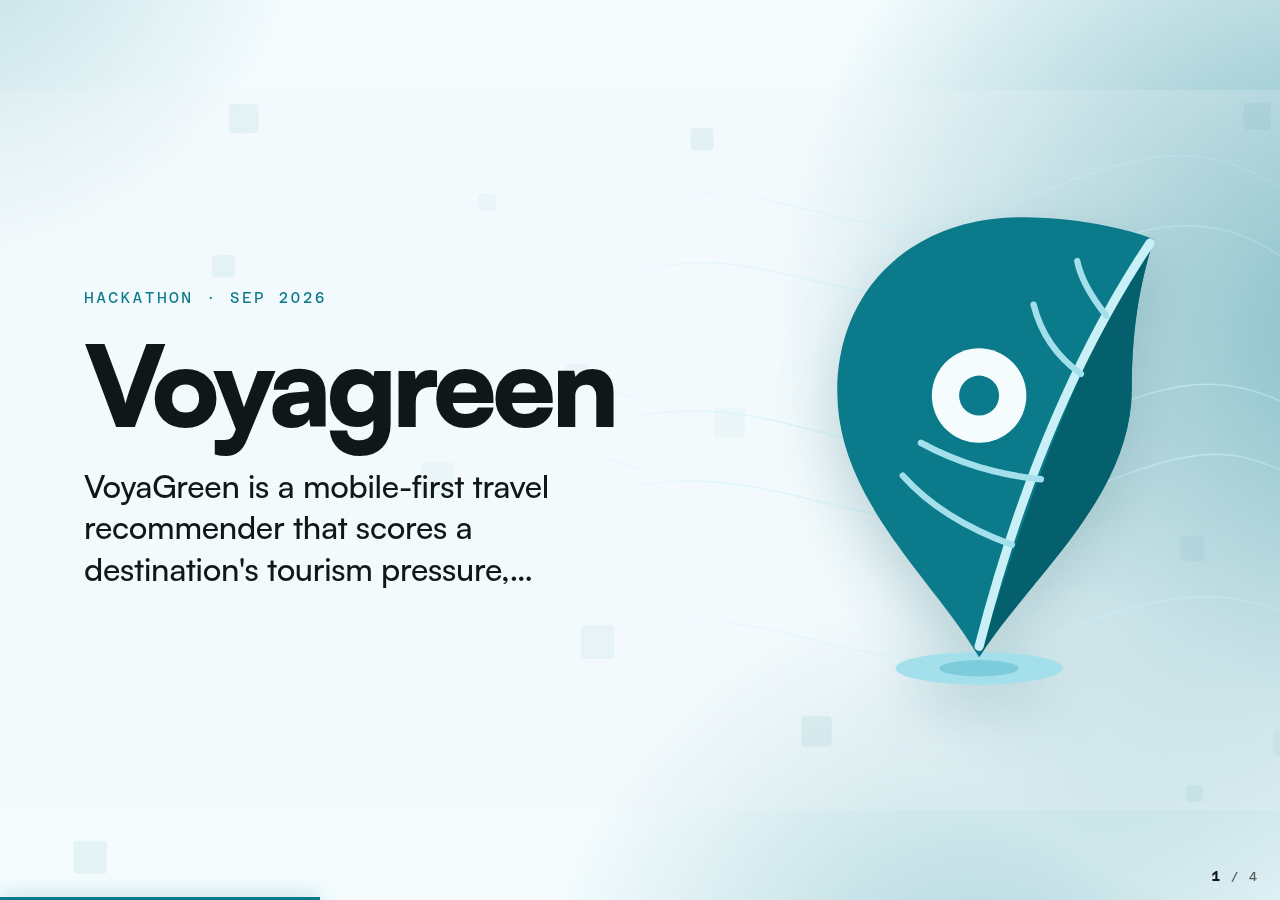
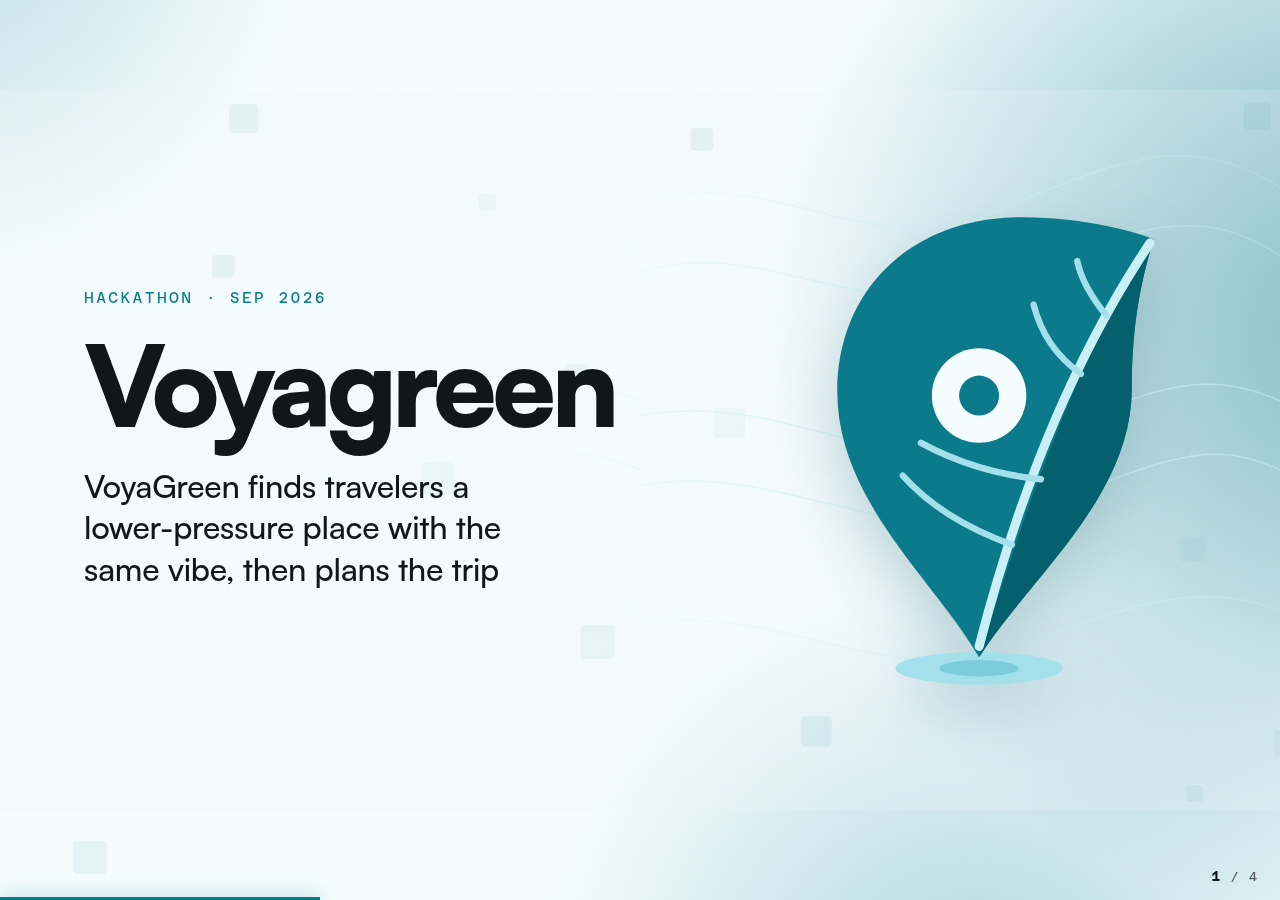
phase: script

Changed region(s): [[0.0625, 0.5289, 0.4375, 0.6533]]

diff --git a/present/deck/slides.html b/present/deck/slides.html
@@ -396,17 +396,17 @@
     <div class="hero-object ho-cover" aria-hidden="true"></div>
     <p class="kicker" data-anim="fade">Hackathon · Sep 2026</p>
     <h1 data-anim="reveal">Voyagreen</h1>
-    <p class="lede" data-anim="type">VoyaGreen is a mobile-first travel recommender that scores a destination's tourism pressure,…</p>
+    <p class="lede" data-anim="type">VoyaGreen finds travelers a lower-pressure place with the same vibe, then plans the trip</p>
   </section>
 
   <section class="slide" data-title="The problem" data-transition="zoom">
     <div class="hero-object ho-problem" aria-hidden="true"></div>
     <h2 data-anim="split">The problem</h2>
     <p class="person" data-anim="rise">Kyla, a college student in Quezon City planning her barkada's summer trip, who books Boracay because it is the first thing every TikTok and travel site shows her</p>
-    <p class="statement" data-anim="rise">Every traveler gets sent to the same handful of famous spots, so those places get overcrowded and strained while the traveler never sees how much pressure their choice adds.</p>
+    <p class="statement" data-anim="rise">Every traveler gets sent to the same few famous spots, so those places get overcrowded and strained, and nobody sees the pressure their choice adds.</p>
     <ul data-anim="stagger">
-      <li>Recommendations rank by popularity, price and distance — never by the pressure on the place</li>
-      <li>Sustainability data exists but is scattered, and nobody researches it before booking</li>
+      <li>Recommendations rank by popularity, price and distance, never by the pressure on the place</li>
+      <li>Sustainability data exists but is scattered, and nobody checks it before choosing a trip</li>
       <li>Lesser-known places with the same vibe stay invisible</li>
     </ul>
   </section>
@@ -422,6 +422,7 @@
     <!-- the real app: `deck --init` copies the ui-gate screenshot to
          assets/app.png and keeps this figure; with no screenshot it is dropped.
          The only photograph ever allowed on a slide is the real product. -->
+    <figure class="shot" data-needs="shot" data-anim="scale"><img src="assets/app.png" alt="The app, running"></figure>
     <ol class="steps" data-anim="checklist">
       <li>Pick Boracay, set 3 days and interests: beach, food, snorkeling</li>
       <li>See Boracay's tourism-pressure score (High) with the indicators behind it, and a lower-pressure alternative with the same vibe</li>
@@ -430,9 +431,9 @@
     <pre class="flow" data-anim="wipe"><code>[ input ] ──▶ [ The pressure check and swap:… ] ──▶ [ result ]</code></pre>
     <p class="note" data-anim="fade">Pick a place, your days and your interests. VoyaGreen scores its tourism pressure, shows the indicators behind it, and if it's High, swaps in a same-vibe place and builds your itinerary there.</p>
     <ul class="facts" data-anim="stagger">
-      <li><strong>Frontend</strong> — single-file static HTML (recommended)</li>
+      <li><strong>Frontend</strong> — a single static HTML file with vanilla JS</li>
       <li><strong>Backend / API</strong> — None — everything runs in the browser</li>
-      <li><strong>The hard part</strong> — Making the swap feel like the same trip: alternatives match on vibe, and every day slot is filled from curated activities that fit your interests, all offline, so it can't fail on stage.</li>
+      <li><strong>The hard part</strong> — making the swap feel like the same trip: same vibe, and every day built from your own interests</li>
     </ul>
   </section>
 
@@ -440,11 +441,11 @@
     <div class="hero-object ho-next" aria-hidden="true"></div>
     <h2 data-anim="split">What's next</h2>
     <ul data-anim="stagger">
-      <li>Live tourism and environmental data feeds</li>
+      <li>Live tourism and environment data</li>
       <li>Booking with local operators</li>
-      <li>Crowd rotation so alternatives never become the next hotspot</li>
+      <li>Crowd rotation between spots</li>
     </ul>
-    <p class="closing" data-anim="rise">VoyaGreen doesn't tell travelers to stay home — it shows them somewhere just as good that the crowd hasn't found yet. Travel greener, not less.</p>
+    <p class="closing" data-anim="rise">VoyaGreen won't tell you to stay home. It shows you somewhere just as good that the crowd hasn't found. Travel greener, not less.</p>
   </section>
 
 </main>

diff --git a/present/script.md b/present/script.md
@@ -1,6 +1,6 @@
 # Demo script — voyagreen
 
-**Presenter** speaks. **Operator** advances. 4 slides, 8 beats, ~78s (194 spoken words).
+**Presenter** speaks. **Operator** advances. 4 slides, 8 beats, ~79s (197 spoken words).
 
 > Operator: keep this open on the slide deck machine. Advance only when you hear the trigger.
 
@@ -9,12 +9,12 @@
 | Beat | Screen | Slide title | Cue |
 |------|--------|-------------|-----|
 | 1 | Slide 1 | Voyagreen | ▶ ADVANCE to Slide 2 after "...else is already going." |
-| 2 | Slide 2 | The problem | ▶ ADVANCE to Slide 3 after "...distance — never by…" |
+| 2 | Slide 2 | The problem | ▶ ADVANCE to Slide 3 after "...pressure on the place" |
 | 3 | Slide 3 | What we built | ⇄ SWITCH to the app after "...show you it working" |
 | 4 | **App** | What we built | HOLD — stay on the app |
 | 5 | **App** | What we built | HOLD — stay on the app |
 | 6 | **App** | What we built | ⇄ SWITCH back to the deck, Slide 3, after "...a side-by-side pressure comparison." |
-| 7 | Slide 3 | What we built | ▶ ADVANCE to Slide 4 after "...is filled from curated…" |
+| 7 | Slide 3 | What we built | ▶ ADVANCE to Slide 4 after "...from your own interests." |
 | 8 | Slide 4 | What's next | END — stop on this slide |
 
 ## Beats
@@ -25,9 +25,9 @@
 **Operator:** ▶ ADVANCE to Slide 2 after "...else is already going."
 
 ### Beat 2 · Slide 2 — The problem
-**Say:** "Every traveler gets sent to the same handful of famous spots, so those places get overcrowded and strained while the traveler never sees how much pressure their choice adds. Recommendations rank by popularity, price and distance — never by…"
+**Say:** "Every traveler gets sent to the same few famous spots, so those places get overcrowded and strained, and nobody sees the pressure their choice adds. Recommendations rank by popularity, price and distance, never by the pressure on the place"
 **Do:** Point at the headline.
-**Operator:** ▶ ADVANCE to Slide 3 after "...distance — never by…"
+**Operator:** ▶ ADVANCE to Slide 3 after "...pressure on the place"
 
 ### Beat 3 · Slide 3 — What we built
 **Say:** "Let me show you it working."
@@ -54,18 +54,18 @@
 **Operator:** ⇄ SWITCH back to the deck, Slide 3, after "...a side-by-side pressure comparison."
 
 ### Beat 7 · Slide 3 — What we built
-**Say:** "We built it with single-file static HTML (recommended); the hard part was Making the swap feel like the same trip: alternatives match on vibe, and every day slot is filled from curated…"
+**Say:** "We built it with a single static HTML file with vanilla JS; the hard part was making the swap feel like the same trip: same vibe, and every day built from your own interests."
 **Do:** One line per bullet, no lingering.
-**Operator:** ▶ ADVANCE to Slide 4 after "...is filled from curated…"
+**Operator:** ▶ ADVANCE to Slide 4 after "...from your own interests."
 
 ### Beat 8 · Slide 4 — What's next
-**Say:** "Next we'd add Live tourism and environmental data feeds, Booking with local operators, Crowd rotation so alternatives never become the next hotspot. VoyaGreen doesn't tell travelers to stay home — it shows them somewhere just as good that…"
+**Say:** "Next we'd add Live tourism and environment data, Booking with local operators, Crowd rotation between spots. VoyaGreen won't tell you to stay home. It shows you somewhere just as good that the crowd hasn't found. Travel greener, not less."
 **Do:** Land the closing line. Stop talking. Do not say "thank you, any questions" — let the line hang.
 **Operator:** END — stop on this slide
 
 ## 30-second short version
 
-"Travel apps send everyone to the same famous places, and those places pay for it. VoyaGreen checks a destination's tourism pressure before you book, and if it's overcrowded it recommends a lower-pressure place with the same vibe and builds your itinerary there. Same great trip, less strain on the…"
+"Travel apps send everyone to the same famous places, and those places pay for it. VoyaGreen checks a destination's tourism pressure before you go. If it's crowded, it finds a lower-pressure place with the same vibe and builds your itinerary there. Same great trip, less strain."
 
 Do this one if the timer is already red: say it over Slides 1, 2 and the last slide.
 

diff --git a/.hackathon/GOALS.md b/.hackathon/GOALS.md
@@ -1,16 +1,18 @@
 # Goals — voyagreen
 
-**Current goal: 5/7 · deck — Build the deck** (owner: pitcher).
+**Current goal: 6/7 · script — Write the demo script** (owner: pitcher).
 
 Success looks like:
-- [ ] deck/slides.html exists, generated from the recorded answers
-- [ ] zero unfilled placeholders
-- [ ] no generic fonts or downloaded icon packs
-- [ ] 4–5 slides
-- [ ] numbers are measured with a source, or labelled a projection — never implied traction
-- [ ] nothing on the SPEC cut list is presented as built (only on What's next)
+- [ ] 100–340 spoken words (~2 minutes, memorizable)
+- [ ] at least 4 beats, plus a 30-second fallback and Q&A
+- [ ] every beat names a real slide and tells the operator when to advance
+- [ ] slide numbers cover the whole deck and only move forward
+- [ ] the live demo switches to the app and back to the same slide — never stranded on the app
+- [ ] opens on a named person and the problem — never a greeting or the team name
+- [ ] ends on the impact and a tagline — never "thank you, any questions"
+- [ ] nothing on the SPEC cut list is presented as built
 
-Verify with `node harness.mjs check deck`, advance with `node harness.mjs done`.
+Verify with `node harness.mjs check script`, advance with `node harness.mjs done`.
 
 ## All goals
 
@@ -32,14 +34,14 @@ Verify with `node harness.mjs check deck`, advance with `node harness.mjs done`.
   - [x] real-looking seed data so nothing is ever empty on stage
   - [x] no generic fonts (Inter, Roboto, JetBrains Mono…) or downloaded icon packs
   - [x] screenshot captured at .hackathon/evidence/ui.png
-- [ ] **5 · deck — Build the deck** · pitcher ← current
-  - [ ] deck/slides.html exists, generated from the recorded answers
-  - [ ] zero unfilled placeholders
-  - [ ] no generic fonts or downloaded icon packs
-  - [ ] 4–5 slides
-  - [ ] numbers are measured with a source, or labelled a projection — never implied traction
-  - [ ] nothing on the SPEC cut list is presented as built (only on What's next)
-- [ ] **6 · script — Write the demo script** · pitcher
+- [x] **5 · deck — Build the deck** · pitcher (done 12:25)
+  - [x] deck/slides.html exists, generated from the recorded answers
+  - [x] zero unfilled placeholders
+  - [x] no generic fonts or downloaded icon packs
+  - [x] 4–5 slides
+  - [x] numbers are measured with a source, or labelled a projection — never implied traction
+  - [x] nothing on the SPEC cut list is presented as built (only on What's next)
+- [ ] **6 · script — Write the demo script** · pitcher ← current
   - [ ] 100–340 spoken words (~2 minutes, memorizable)
   - [ ] at least 4 beats, plus a 30-second fallback and Q&A
   - [ ] every beat names a real slide and tells the operator when to advance
@@ -53,4 +55,4 @@ Verify with `node harness.mjs check deck`, advance with `node harness.mjs done`.
   - [ ] cold restart passes — the app survives being killed and restarted
   - [ ] deck and script gates still green after last-minute edits
 
-_Regenerated 2026-09-30T04:24:44.243Z by the harness from the gate definitions. Don't hand-edit the checkboxes — run the gates._
+_Regenerated 2026-09-30T04:25:50.864Z by the harness from the gate definitions. Don't hand-edit the checkboxes — run the gates._
